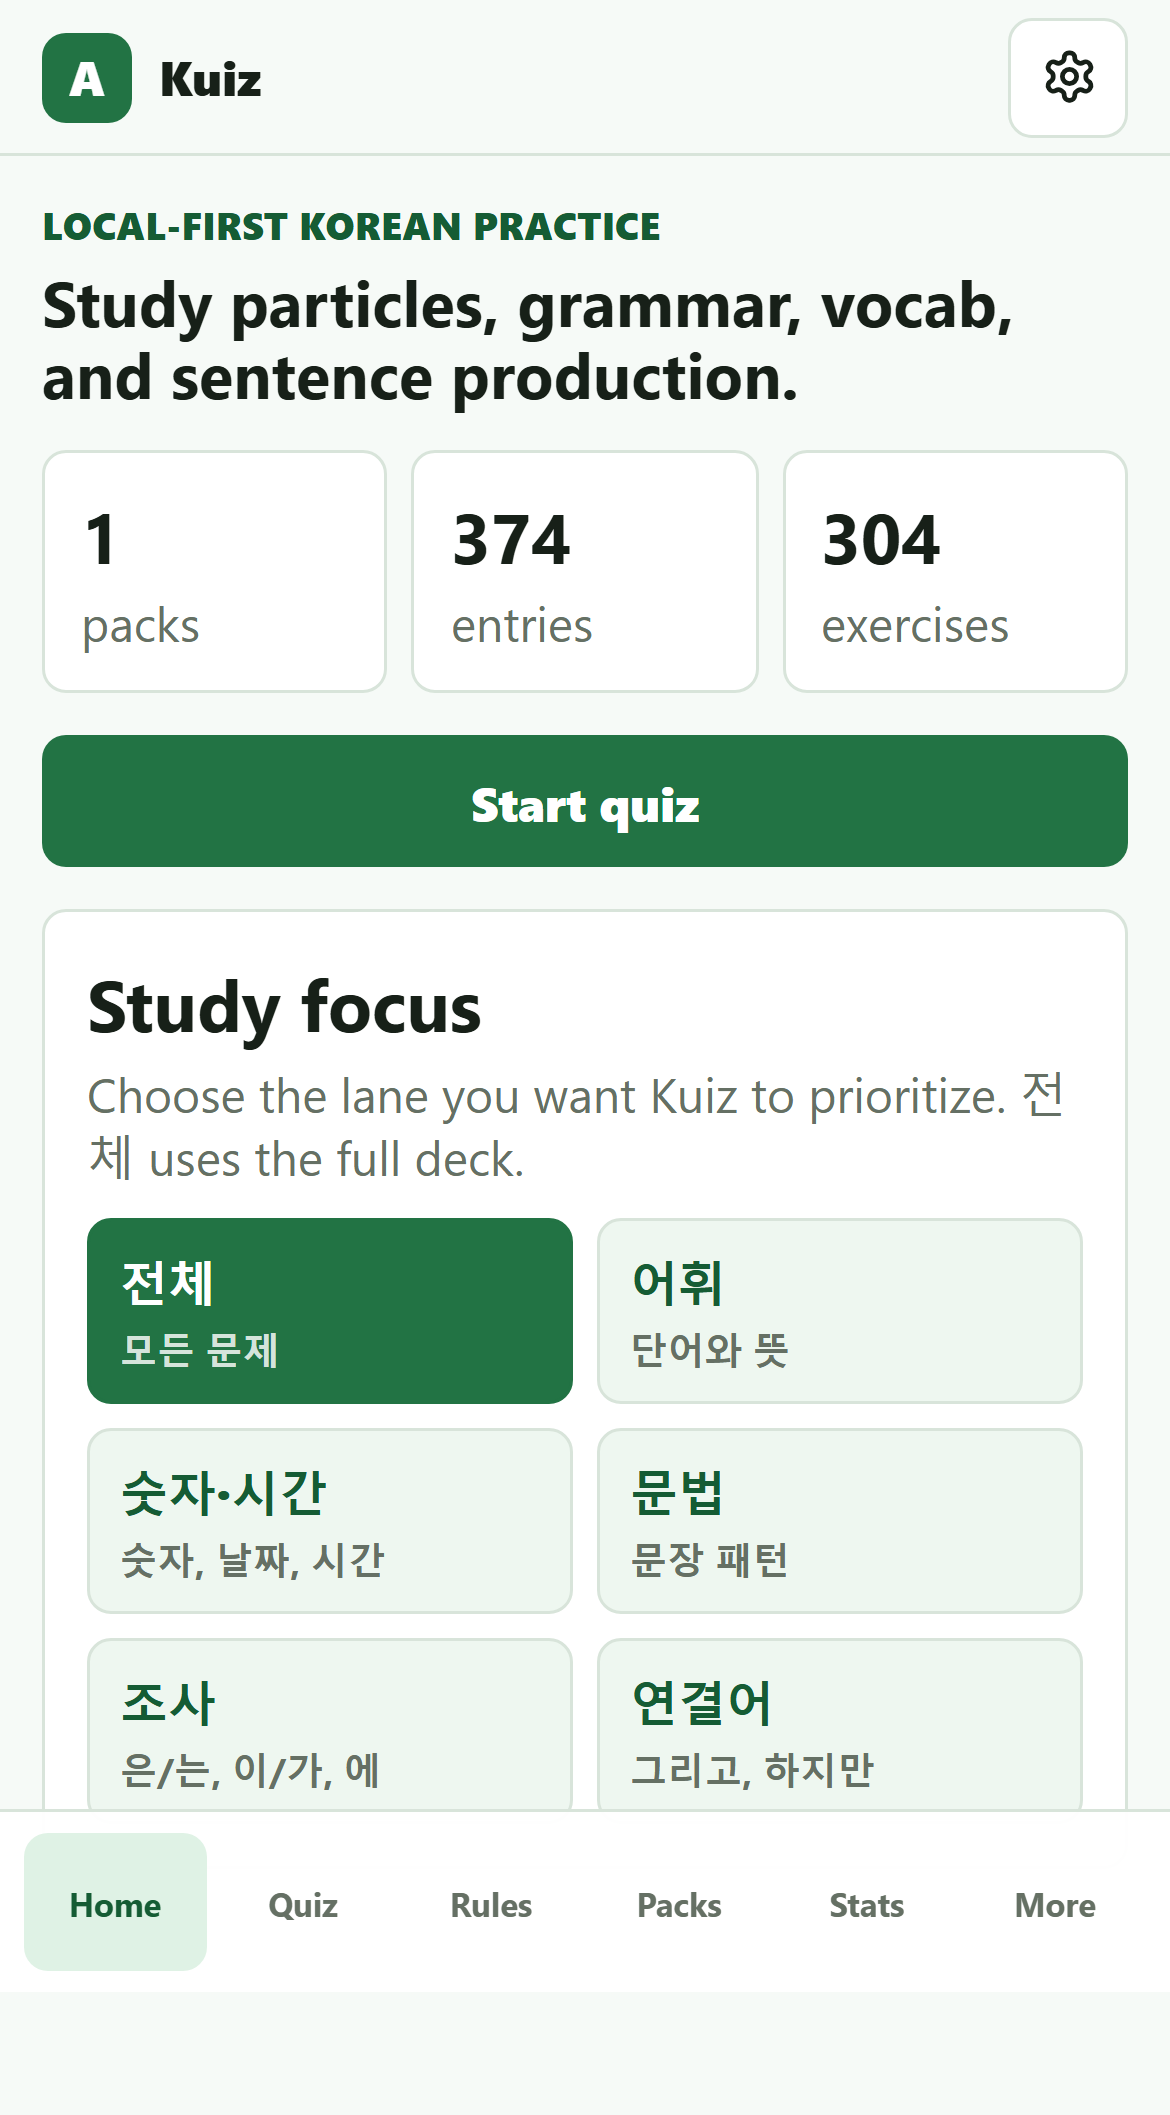
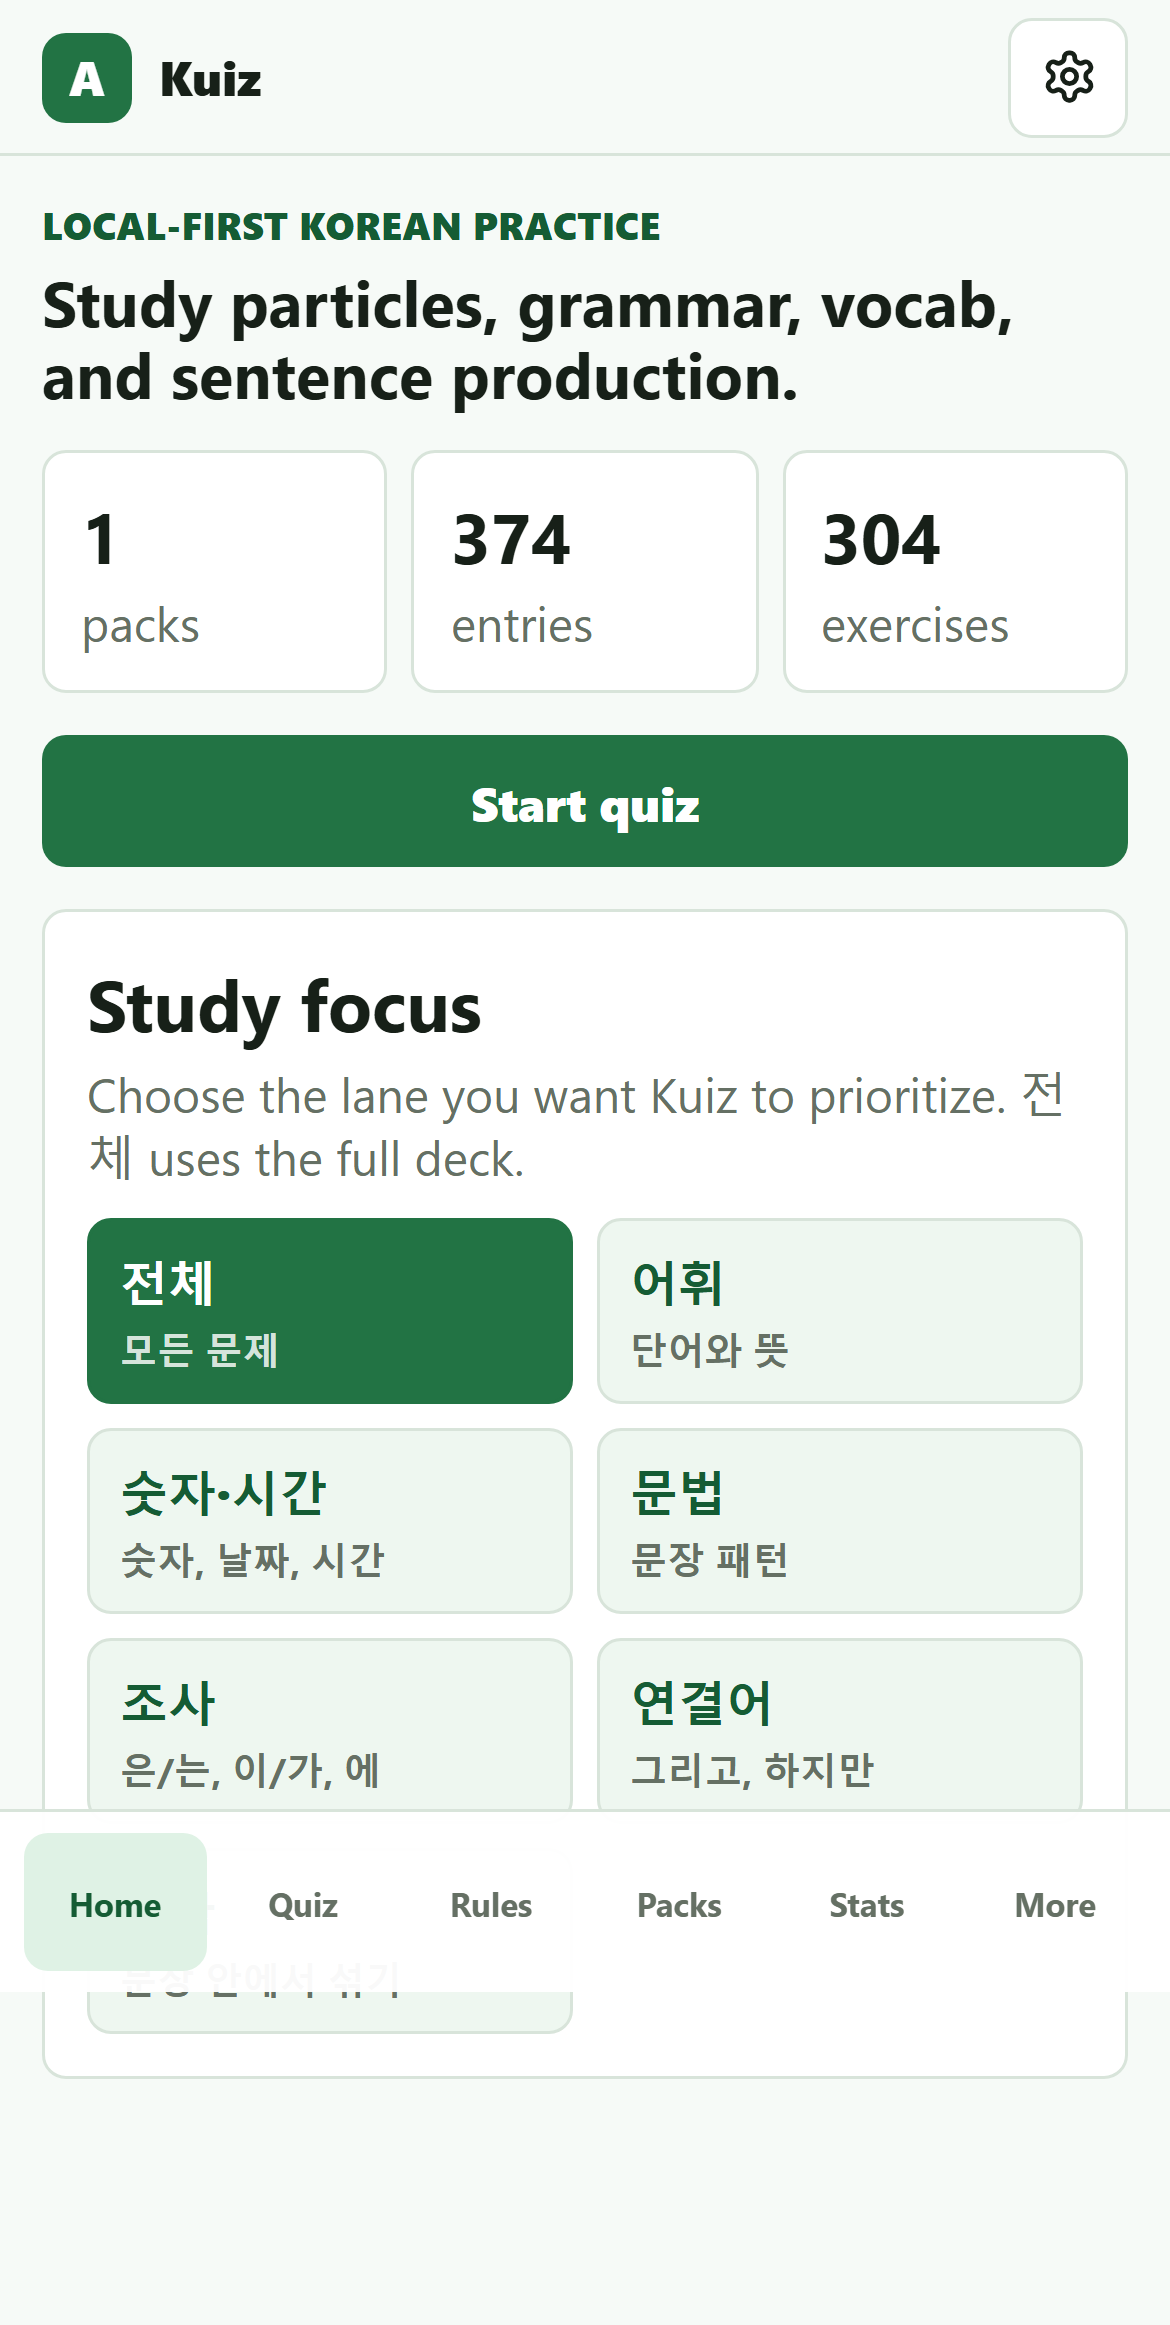
Refine mixed practice and sentence distractors

diff --git a/src/engine/practiceCategories.ts b/src/engine/practiceCategories.ts
@@ -1,4 +1,4 @@
-export type PracticeCategoryId = "mixed" | "vocab" | "numbers" | "grammar" | "particles" | "connectors";
+export type PracticeCategoryId = "all" | "vocab" | "numbers" | "grammar" | "particles" | "connectors" | "mixed";
 
 export type PracticeCategory = {
   id: PracticeCategoryId;
@@ -9,7 +9,7 @@ export type PracticeCategory = {
 
 export const practiceCategories: PracticeCategory[] = [
   {
-    id: "mixed",
+    id: "all",
     label: "전체",
     description: "모든 문제",
     tags: [],
@@ -71,6 +71,20 @@ export const practiceCategories: PracticeCategory[] = [
     description: "그리고, 하지만",
     tags: ["connectors", "connection", "connector", "go", "jiman", "geona", "ani-myeon"],
   },
+  {
+    id: "mixed",
+    label: "혼합",
+    description: "문장 안에서 섞기",
+    tags: [
+      "mixed",
+      "sentencebuilder",
+      "sentence-builder",
+      "correction",
+      "time-action",
+      "time-and-actions",
+      "sentence-pattern",
+    ],
+  },
 ];
 
 const tagLabels: Record<string, string> = {
@@ -119,6 +133,7 @@ const tagLabels: Record<string, string> = {
   "sino-numbers": "일·이·삼",
   time: "시간",
   "time-action": "시간+동작",
+  "time-and-actions": "시간+동작",
   vocab: "어휘",
 };
 
@@ -127,7 +142,7 @@ export function tagsForPracticeCategory(categoryId: PracticeCategoryId): string[
 }
 
 export function categoryMatchesSelectedTags(category: PracticeCategory, selectedTags: string[]): boolean {
-  if (category.id === "mixed") return selectedTags.length === 0;
+  if (category.id === "all") return selectedTags.length === 0;
   if (selectedTags.length === 0) return false;
   return selectedTags.every((tag) => category.tags.includes(tag));
 }

diff --git a/src/engine/practiceCategories.test.ts b/src/engine/practiceCategories.test.ts
@@ -9,12 +9,13 @@ import {
 describe("practice categories", () => {
   test("exposes the learner-facing focus lanes", () => {
     expect(practiceCategories.map((category) => category.id)).toEqual([
-      "mixed",
+      "all",
       "vocab",
       "numbers",
       "grammar",
       "particles",
       "connectors",
+      "mixed",
     ]);
 
     for (const category of practiceCategories) {
@@ -24,22 +25,27 @@ describe("practice categories", () => {
   });
 
   test("maps focus lanes to internal tags without displaying those tags", () => {
-    expect(tagsForPracticeCategory("mixed")).toEqual([]);
+    expect(tagsForPracticeCategory("all")).toEqual([]);
     expect(tagsForPracticeCategory("numbers")).toEqual(
       expect.arrayContaining(["number", "numbers", "sino-numbers", "native-numbers"]),
     );
     expect(tagsForPracticeCategory("particles")).toEqual(expect.arrayContaining(["particles", "buteo", "bakke"]));
+    expect(tagsForPracticeCategory("mixed")).toEqual(expect.arrayContaining(["sentence-builder", "correction"]));
   });
 
   test("recognizes existing saved tag filters as their category", () => {
     const numbers = practiceCategories.find((category) => category.id === "numbers");
+    const all = practiceCategories.find((category) => category.id === "all");
     const mixed = practiceCategories.find((category) => category.id === "mixed");
 
     expect(numbers).toBeDefined();
+    expect(all).toBeDefined();
     expect(mixed).toBeDefined();
     expect(categoryMatchesSelectedTags(numbers!, ["sino-numbers"])).toBe(true);
     expect(categoryMatchesSelectedTags(numbers!, ["sino-numbers", "vocab"])).toBe(false);
-    expect(categoryMatchesSelectedTags(mixed!, [])).toBe(true);
+    expect(categoryMatchesSelectedTags(all!, [])).toBe(true);
+    expect(categoryMatchesSelectedTags(mixed!, [])).toBe(false);
+    expect(categoryMatchesSelectedTags(mixed!, ["sentence-builder", "correction"])).toBe(true);
   });
 
   test("labels raw content tags in Korean", () => {

diff --git a/src/schemas/contentPack.test.ts b/src/schemas/contentPack.test.ts
@@ -63,6 +63,8 @@ describe("content pack schema", () => {
       /[.!?]$/.test(text.trim()) ||
       /[가-힣].*(요|다|까|죠|네|어|아)[.!?]?$/u.test(text.trim()) ||
       /\s/u.test(text.trim());
+    const hangulSentencePrompt = (text: string) =>
+      /[가-힣]/u.test(text) && /(요|다|까|죠|네)[.!?]?\s*mean\?/u.test(text);
 
     for (const exercise of parsed.exercises) {
       if (exercise.type !== "mcq") continue;
@@ -79,6 +81,10 @@ describe("content pack schema", () => {
       if (/sentence/i.test(exercise.prompt.stem)) {
         const sentenceChoiceCount = choices.filter(sentenceLike).length;
         expect([0, choices.length], exercise.id).toContain(sentenceChoiceCount);
+      }
+
+      if (hangulSentencePrompt(exercise.prompt.stem)) {
+        expect(choices.every(sentenceLike), exercise.id).toBe(true);
       }
     }
   });

diff --git a/e2e/mobile-layout.spec.ts b/e2e/mobile-layout.spec.ts
@@ -28,6 +28,7 @@ test("home study focus uses Korean categories instead of raw tags", async ({ pag
   await expect(page.getByRole("button", { name: /어휘/ })).toBeVisible();
   await expect(page.getByRole("button", { name: /숫자·시간/ })).toBeVisible();
   await expect(page.getByRole("button", { name: /조사/ })).toBeVisible();
+  await expect(page.getByRole("button", { name: /혼합/ })).toBeVisible();
   await expect(page.getByText("sino-numbers")).toHaveCount(0);
   await expect(page.getByText("native-numbers")).toHaveCount(0);
 });

diff --git a/docs/LEARNING_DESIGN.md b/docs/LEARNING_DESIGN.md
@@ -1,0 +1,32 @@
+# Kuiz Learning Design
+
+Kuiz should be a Korean practice system, not a flashcard wrapper. The app should keep moving toward three product rules:
+
+1. Practice meaning in context before isolated recall.
+2. Ask learners to produce language, not only recognize it.
+3. Treat particles, grammar, vocab, numbers, and connectors as interacting sentence systems.
+
+## Research Baseline
+
+- CEFR frames proficiency through communicative language activities: reception, production, interaction, and mediation, plus linguistic, sociolinguistic, and pragmatic competence. Kuiz should therefore include reading/listening comprehension, sentence production, repair, and future interaction tasks, not just word lookup. Source: Council of Europe, *CEFR Companion Volume* (2020), https://rm.coe.int/common-european-framework-of-reference-for-languages-learning-teaching/16809ea0d4.
+- ACTFL's World-Readiness Standards connect communication with cultures, connections, comparisons, and communities. Kuiz content should eventually include context and register notes instead of treating every sentence as a literal translation item. Source: ACTFL World-Readiness Standards, https://www.actfl.org/educator-resources/world-readiness-standards-for-learning-languages.
+- Retrieval practice improves delayed retention more than restudying alone. Multiple-choice is useful only when distractors are plausible and feedback repairs the misconception. Source: Roediger & Karpicke, "Test-Enhanced Learning: Taking Memory Tests Improves Long-Term Retention," https://doi.org/10.1111/j.1467-9280.2006.01693.x.
+- Nation's four-strands model argues for balance across meaning-focused input, meaning-focused output, language-focused learning, and fluency development. Kuiz should balance explicit grammar/particle study with reading/listening, sentence building, correction, and fast review of familiar material. Source overview: https://en.wikipedia.org/wiki/Paul_Nation.
+
+## Current Product Rules
+
+- Study focus lanes are learner-facing categories: `전체`, `어휘`, `숫자·시간`, `문법`, `조사`, `연결어`, and `혼합`.
+- `혼합` means integrated sentence practice: sentence builder, correction, time/action, and multi-tag sentence patterns.
+- MCQs must use same-granularity choices. Full-sentence Korean prompts need full-sentence English choices.
+- Number distractors must stay in the same number system and be near enough to require real recall.
+- Grammar references should explain separate particle jobs instead of inventing fake monolithic templates.
+- Audio should remain Korean-only.
+- Progress, mistakes, and import history stay local-first.
+
+## Next Product Direction
+
+- Add a lesson path that moves from input to output: read/listen, notice form, produce sentence, repair mistake, then fluency review.
+- Add minimal-dialogue and scenario practice for interaction, especially particles and connectors in context.
+- Add native-speaker naturalness notes for register, politeness, and when a literal English translation is misleading.
+- Add a smarter session planner that picks a balanced mix from due reviews, weak categories, and mixed sentence work.
+- Expand import validation so future lesson JSON must include examples, misconception-based distractors, and at least one production task per new grammar point.

diff --git a/docs/FINAL_REPORT.md b/docs/FINAL_REPORT.md
@@ -15,11 +15,14 @@
 - Implemented quiz modes for multiple choice, fill blank, sentence builder, corrections, and conjugation practice.
 - Separated `Skip` and `Next` behavior: `Skip` is available before grading; `Next` appears only after answering or showing the answer.
 - Fixed mobile chip selected state so buttons do not stay incorrectly pre-highlighted.
-- Replaced raw Study Focus tags with six learner-facing Korean category lanes: 전체, 어휘, 숫자·시간, 문법, 조사, 연결어.
+- Replaced raw Study Focus tags with learner-facing Korean category lanes: 전체, 어휘, 숫자·시간, 문법, 조사, 연결어, 혼합.
+- Split `전체` from `혼합`: 전체 clears filters for the full deck; 혼합 targets integrated sentence building, correction, and multi-category sentence practice.
 - Mapped quiz and pack metadata tags through Korean display labels so internal slugs like `sino-numbers` are not shown to learners.
 - Added deterministic multiple-choice ordering so stored content can no longer make the correct answer appear first on every question.
 - Revised number MCQs so distractors are plausible same-system nearby numbers instead of obvious 1/2/3 filler choices.
+- Rewrote full-sentence Korean MCQs so answer choices are full-sentence alternatives rather than fragments like "am studying."
 - Reworked placeholder-heavy grammar references into readable Korean example patterns with particle roles explained.
+- Added `docs/LEARNING_DESIGN.md` to ground future product work in CEFR, ACTFL, retrieval-practice research, and Nation's four-strands model.
 - Kept full particle mode enabled by default with strict particle checking.
 - Added Korean-only speech synthesis filtering and `ko-KR` speech defaults.
 - Added JSON import/update workflow with schema validation, duplicate detection, create/update/skip/conflict preview, rollback snapshots, and transactional merge.
@@ -44,6 +47,7 @@ Coverage includes:
 - Particle strictness and full-particle defaults.
 - Distractor homogeneity.
 - Korean Study Focus category labels with no raw `sino-numbers` or `native-numbers` text on Home.
+- Separate mixed lane visible on Home.
 - Deterministic MCQ choice ordering with the correct answer not locked to the first position.
 - Content-pack acceptance checks:
   - no duplicate dedupe keys
@@ -53,6 +57,7 @@ Coverage includes:
   - starter pack covers lesson-PDF scope
   - number MCQs avoid low-number filler distractors
   - grammar references avoid bracket-placeholder templates
+  - full-sentence Korean MCQ prompts use full-sentence choices
 - Mobile layout checks for iPhone viewport.
 
 ## Verification Screenshots